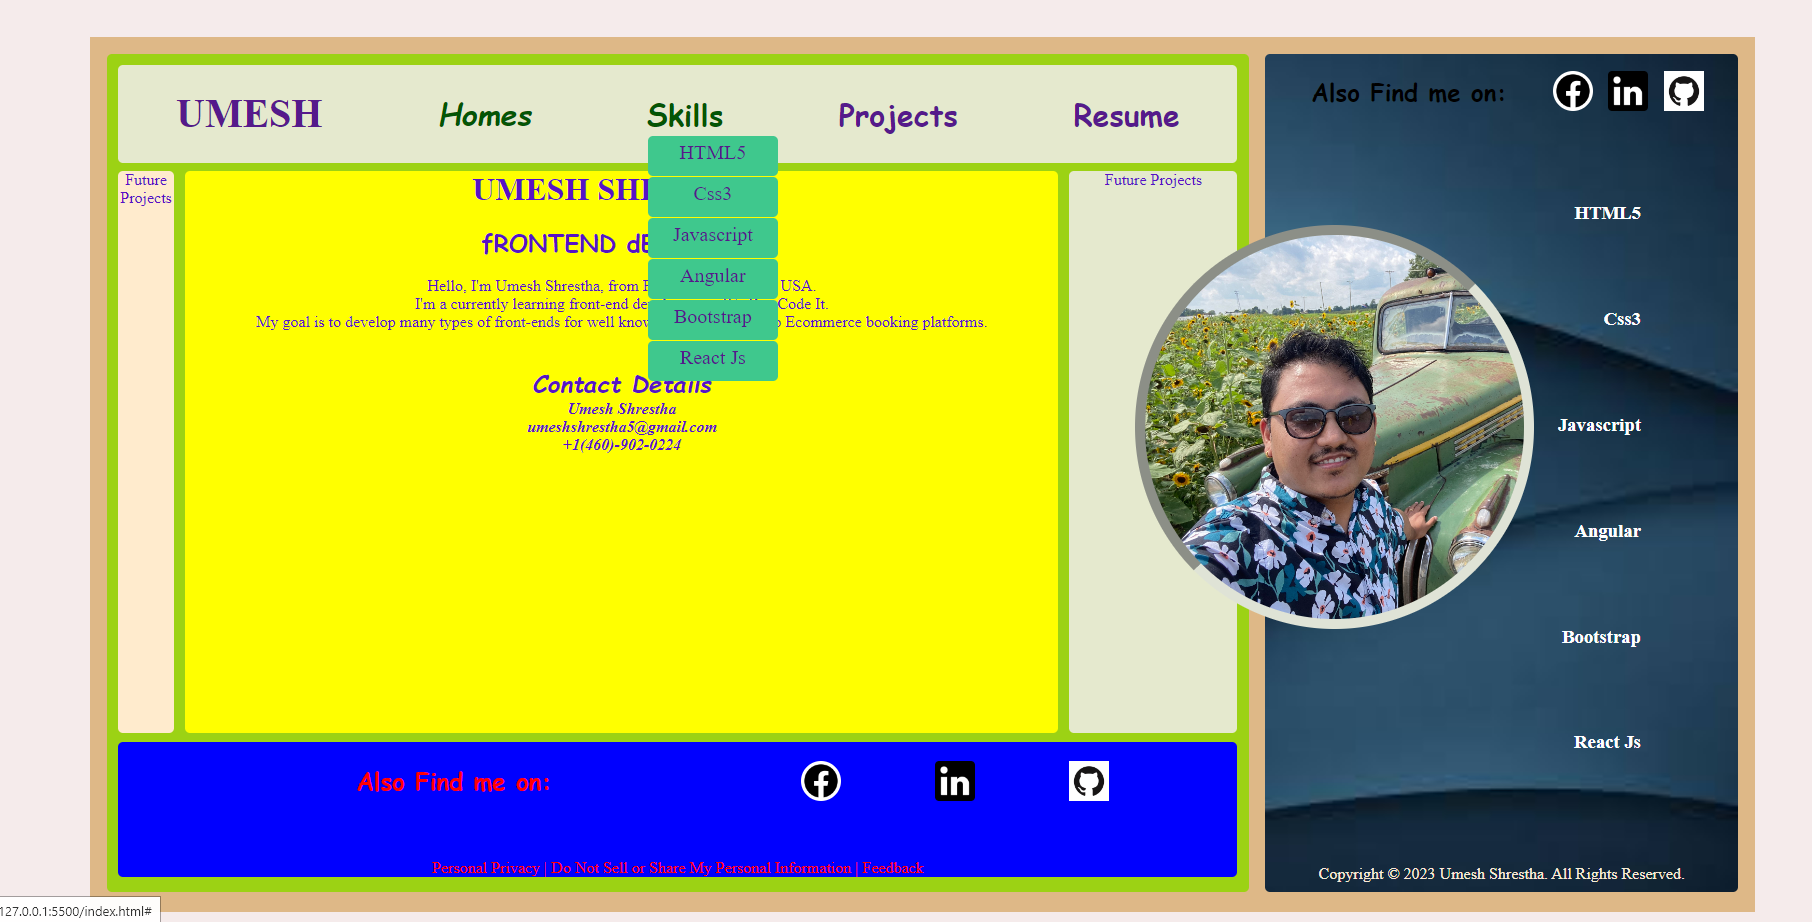
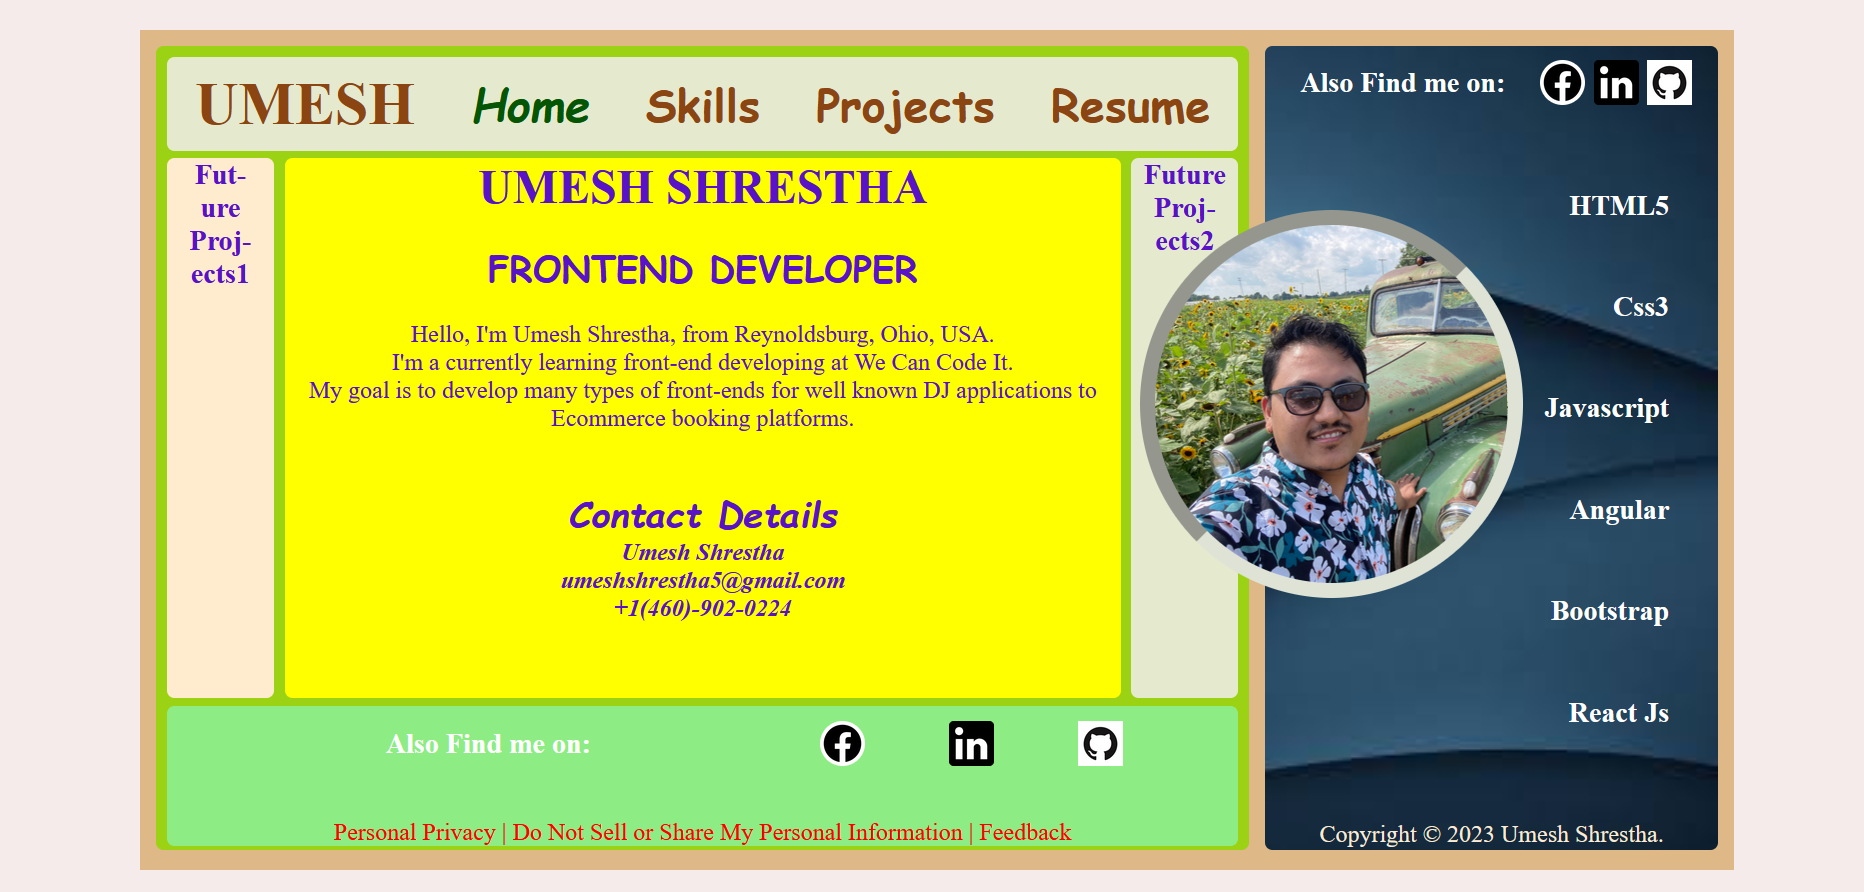
Assignment Final

diff --git a/index.html b/index.html
@@ -13,7 +13,7 @@
             <div id="main-left">
                 <div class="div-port header">
                     <div class="Portfolio"><h1><a href="#">UMESH</a></h1></div>
-                    <div class="home"><h2><a href="index.html" id="homes">Homes</a></h2></div>
+                    <div class="home"><h2><a href="index.html" id="homes">Home</a></h2></div>
                     <div class="skills"><h2><a href="#">Skills</a></h2>
                         <ul>
                             <li><a href="#">HTML5</a></li>
@@ -39,7 +39,7 @@
                 <div class="div-port navi"><h3>Fut-<br>ure Proj-<br>ects1</h3></div>
                 <div class="div-port section">
                     <h1>UMESH SHRESTHA</h1><br>
-                    <h2>fRONTEND dEVELOPER</h2>
+                    <h2>FRONTEND DEVELOPER</h2>
                     <br>
                     <p>Hello, I'm Umesh Shrestha, from Reynoldsburg, Ohio, USA.</p>
                     <p>I'm a currently learning front-end developing at We Can Code It.</p>
@@ -50,7 +50,7 @@
                         <h4><i>umeshshrestha5@gmail.com</i></h4>
                         <h4><i>+1(460)-902-0224</i></h4>
                 </div>
-                <div class="div-port article"><h3>Future Proje-<br>cts2</h3></div>
+                <div class="div-port article"><h3>Future Proj-<br>ects2</h3></div>
                 <!-- <div class="div-port div-5">top4</div> -->
                 <div class="div-port footer">
                     <nav class="div-port1 nav">

diff --git a/style/background-style.css b/style/background-style.css
@@ -8,7 +8,7 @@
 	--dark: #333;
 }
 #container{
-    /* background-color: rgb(245, 235, 235); */
+    background-color: rgb(245, 235, 235);
 	padding: 100px;
 }
 
@@ -51,6 +51,7 @@ li{
 }
 a{
 	text-decoration: none;
+	color: saddlebrown;
 }
 .home h2 a{
 	font-style: italic;
@@ -58,7 +59,7 @@ a{
 }
 
 .div-port{
-    /* color: rgb(87, 19, 197); */
+    color: rgb(87, 19, 197);
     background-color: rgb(229, 233, 206);
     border-radius: 5px;
     border: 5px;

diff --git a/style/grid-style.css b/style/grid-style.css
@@ -84,6 +84,10 @@
 }
 
 
+.article{
+
+}
+
 
 .footer{
     display: grid;
@@ -92,7 +96,7 @@
     width: 100%;
     grid-area: 3/1/4/4;
     color: red;
-    background-color: blue;
+    background-color: rgb(141, 237, 132);
     height: 100%;
     justify-content: center;
     border-radius: 5px;
@@ -106,7 +110,6 @@
     color: white;
     gap: 1%;
 }
-
 .skills-right{
     display: grid;
     padding-top: 15%;
